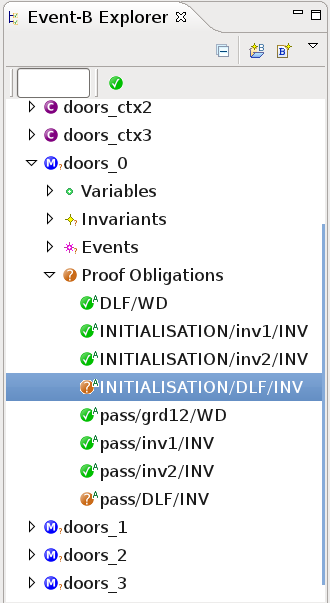
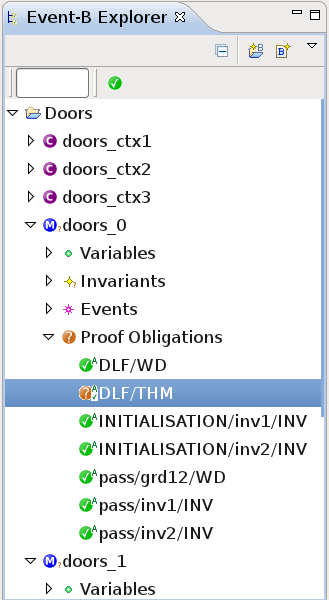
changes on the tutorial 10
git-svn-id: svn://svn.code.sf.net/p/rodin-b-sharp/svn/trunk/Handbook@12419 1434b563-b632-4741-aa49-43a3a8374d2e

Changed region(s): [[0.0, 0.0, 1.0, 1.0], [0.1216, 0.51, 0.152, 0.57], [0.3343, 0.12, 0.3647, 0.15]]

diff --git a/org.rodinp.handbook.feature/latex/tutorial-10.tex b/org.rodinp.handbook.feature/latex/tutorial-10.tex
@@ -3,7 +3,7 @@
 
 \tick{\textbf{Goals:} The objective of this section is to create a model of the Location Access Controller, and besides detail more complex proofs in order to approach the notion of deadlock freeness.}
 
-\info {First of all you need to download the following file named doors.zip}
+\info {First of all you need to download the following \ file\{doors.zip\}\{Location Access Controller problem\}}
 \subsection{Initial Model}
 Through this model, we shall study a complete system and remind the proof rules of formal development.
 What should be established at the very outset is that the system concerns people and locations. Actually, we will construct a model in order to control the access of certain people to different locations of a site.
@@ -49,7 +49,7 @@ Switch to the \textbf{Proving Perspective}
 
 \textsf{ Window $\rangle$ Open perspective $\rangle$ Proving }
 
-At first glance, we can notice that the auto provers failed to prove the theorem (\textsf{INITIALISATION/DLF/INV})
+At first glance, we can notice that the auto provers failed to prove the theorem (\textsf{DLF/THM})
 \begin{center}
 	\includegraphics[]{img/tutorial/tut_10_proversfailed.png}
 \end{center}
@@ -169,14 +169,22 @@ This can be illustrated as follow:
 	\includegraphics[]{img/tutorial/tut_10_graph.png}
 \end{center}
 
-At the beginning of the proof, there are no selected hypotheses at all. So we need to select several hypotheses. We shall see that the old deadlock freeness invariant will be useful, and the Axiom 7 of doors\_ctx2 too. But since \textbf{sit} and \textbf{aut} are inside the invariant, to begin with we also need to prove:
+At the beginning of the proof, there are no selected hypotheses at all. So we need to select several hypotheses. In order to complete the proof we need the old deadlock freeness invariant, and the Axiom 7 of doors\_ctx2, which will be useful too.
+
+
+\[
+\texttt{Axiom 7 \space \space \space \space}\exists l.l \in L \backslash \{outside\} \wedge outside \mapsto l \in com \wedge P \times \{l\} \subseteq aut
+\]
+
+
+But since \textbf{sit} and \textbf{aut} are inside the invariant, to begin with we also need to prove:
 \[
 sit \subseteq aut
 \]
-%and
-%\[
-%sit \in P \mapsto L
-%\]
+
+\[
+sit \in P \mapsto L
+\]
 Once again, the existential quantifiers are rewritten by the auto-provers in the hypotheses. Now we will consider precisely the proof. There is an easy case if sit(p) = outside. Type this into the proof control and add this case as previously with a case distinction (dc) in order to solve it. For q, we have to select the choice p. However for m, you will use the existential quantifier of Axiom 7 to instantiate m with l as l0. 
 Axiom 7 proves that we have no deadlock for people who are outside.
 
